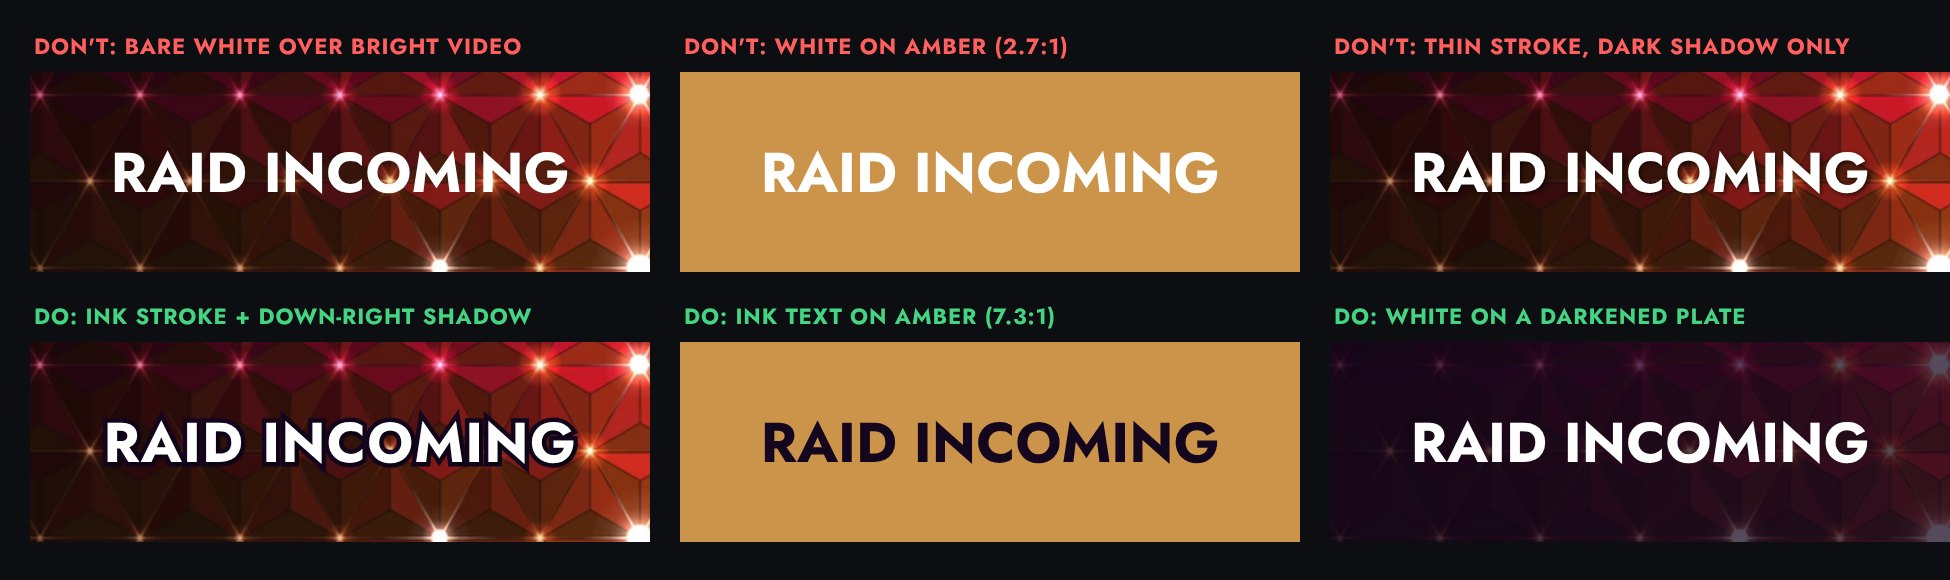
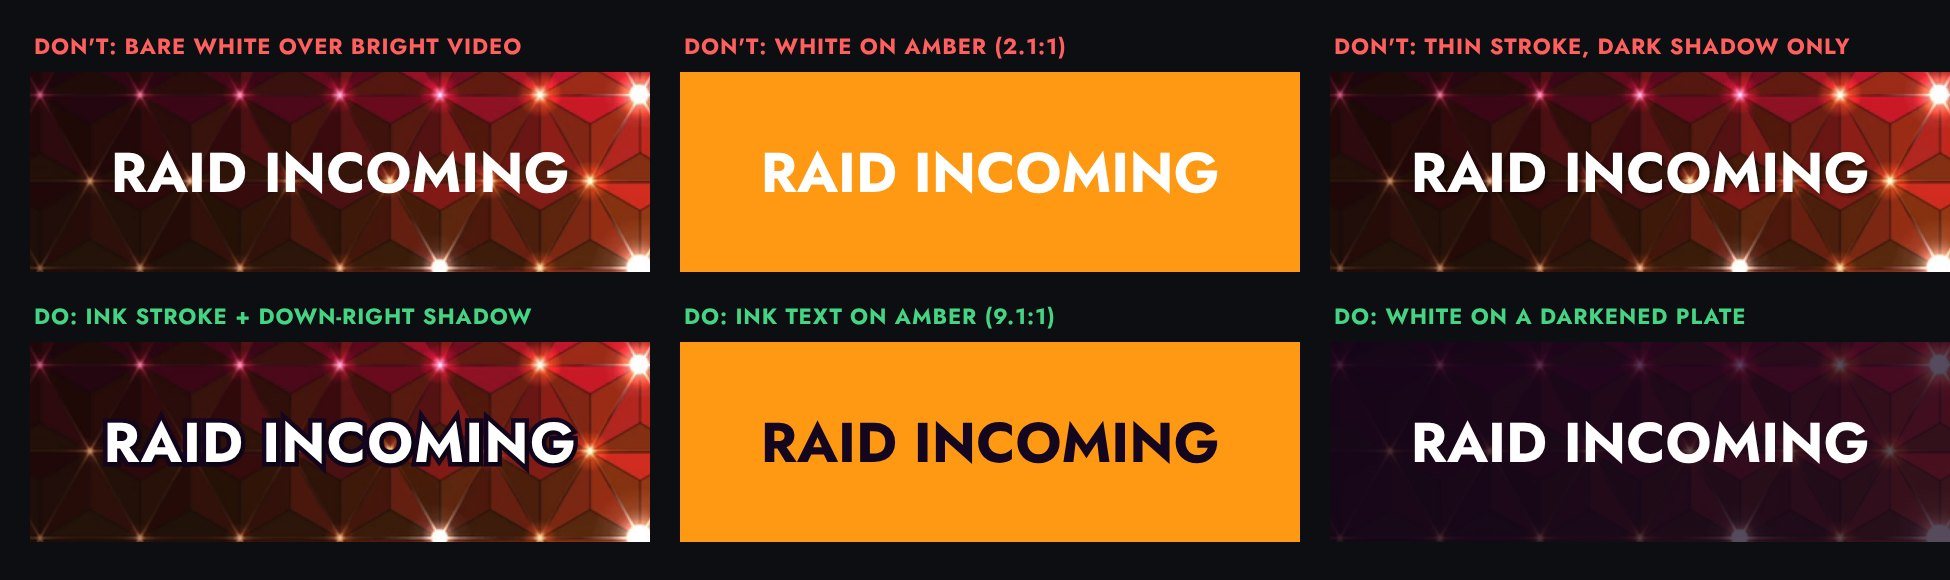
docs(design): shade stops like the scenes; mark target rules
Code review: designColor now shades the Illuminations stops on HSL
lightness through shadeStops(), as the scenes do, instead of on RGB; the
colour table and ratios follow (stop 5 white 3.2:1, stop 6 ink 9.1:1).
Design review: a Today vs target table marks the rules that differ from
what ships, and audit issues toward a target go through design review and
AJ's mocks first.

Claude-Session: https://claude.ai/code/session_01Jc2Vj5hE2S5k8CZ6sLe5BR

diff --git a/tools/design/figures.js b/tools/design/figures.js
@@ -23,7 +23,7 @@ import { tmpdir } from 'node:os';
 import { execFileSync } from 'node:child_process';
 import { launchBrowser, projectRoot } from '../lib/browser.js';
 import { config } from '../../src/config/config.js';
-import { safeRect, scaleHex } from '../../src/shared/design.js';
+import { safeRect, shadeHex } from '../../src/shared/design.js';
 import { miuItemRect } from '../../src/shared/layout.js';
 
 const flags = Object.fromEntries(process.argv.slice(2).filter(a => a.startsWith('--')).map(a => {
@@ -186,8 +186,8 @@ try {
 
     // 4. Text over video: contrast do and don't
     if (want('contrast')) {
-        const amber = scaleHex(stops[6], D.color.brightness);
-        const orange = scaleHex(stops[5], D.color.brightness);
+        const amber = shadeHex(stops[6], D.color.brightness);
+        const orange = shadeHex(stops[5], D.color.brightness);
         const tile = (label, cls, inner, bgCss) => `<div style="width:620px">
             <div class="cap ${cls}" style="margin:0 0 10px 4px">${label}</div>
             <div style="position:relative;width:620px;height:200px;overflow:hidden;${bgCss}">${inner}</div></div>`;
@@ -196,10 +196,10 @@ try {
         const plain = `font:700 56px Jost;text-transform:uppercase;color:#fff`;
         await shoot(`<div style="display:grid;grid-template-columns:repeat(3,620px);gap:28px 30px;padding:30px">
             ${tile('Don\'t: bare white over bright video', 'dont', word(plain), epcotBg)}
-            ${tile('Don\'t: white on amber (2.7:1)', 'dont', word(plain), `background:${amber}`)}
+            ${tile('Don\'t: white on amber (2.1:1)', 'dont', word(plain), `background:${amber}`)}
             ${tile('Don\'t: thin stroke, dark shadow only', 'dont', word(plain + ';text-shadow:2px 2px 4px rgba(0,0,0,.6)'), epcotBg)}
             ${tile('Do: ink stroke + down-right shadow', 'do', word(textCss(56)), epcotBg)}
-            ${tile('Do: ink text on amber (7.3:1)', 'do', word(`font:700 56px Jost;text-transform:uppercase;color:${D.color.ink}`), `background:${amber}`)}
+            ${tile('Do: ink text on amber (9.1:1)', 'do', word(`font:700 56px Jost;text-transform:uppercase;color:${D.color.ink}`), `background:${amber}`)}
             ${tile('Do: white on a darkened plate', 'do', word(plain), `${epcotBg};box-shadow:inset 0 0 0 1000px rgba(20,6,31,.72)`)}
           </div>`, 1950, 580, 'contrast.jpg');
         void orange;
@@ -207,8 +207,8 @@ try {
 
     // 5. Chroma subsampling: hue-only contrast dies in a 4:2:0 encode
     if (want('chroma')) {
-        const violet = scaleHex(stops[0], D.color.brightness), magenta = scaleHex(stops[2], D.color.brightness);
-        const red = scaleHex(stops[3], D.color.brightness);
+        const violet = shadeHex(stops[0], D.color.brightness), magenta = shadeHex(stops[2], D.color.brightness);
+        const red = shadeHex(stops[3], D.color.brightness);
         const src = await shoot(`<div style="width:1920px;height:1080px;background:${violet};position:relative">
             <div style="position:absolute;left:80px;top:140px;font:700 72px Jost;color:${magenta}">MAGENTA ON VIOLET</div>
             <div style="position:absolute;left:80px;top:300px;font:700 72px Jost;color:${red}">RED ON VIOLET</div>
@@ -229,11 +229,11 @@ try {
 
     // 6. Banding: big slow dark gradients band once encoded
     if (want('banding')) {
-        const ink = D.color.ink, violet = scaleHex(stops[0], 0.45);
+        const ink = D.color.ink, violet = shadeHex(stops[0], 0.45);
         const src = await shoot(`<div style="width:1920px;height:1080px;display:grid;grid-template-columns:1fr 1fr 1fr">
             <div style="background:linear-gradient(90deg, ${ink}, ${violet})"></div>
             <div style="background:linear-gradient(90deg, ${ink}, ${violet})"><canvas id="n" width="640" height="1080"></canvas></div>
-            <div style="background:linear-gradient(90deg, ${ink}, ${scaleHex(stops[0], 0.8)})"></div>
+            <div style="background:linear-gradient(90deg, ${ink}, ${shadeHex(stops[0], 0.8)})"></div>
           </div>
           <script data-run>
             const c = document.getElementById('n'), x = c.getContext('2d'), im = x.createImageData(640, 1080);

diff --git a/src/shared/design.js b/src/shared/design.js
@@ -4,6 +4,9 @@
  * Pure functions, unit-tested in tests/shared/design.test.js.
  */
 
+import { hexToHSL, hslToRgb } from './colors.js';
+import { shadeStops } from './palette.js';
+
 /**
  * WCAG relative luminance of a #rrggbb colour.
  *
@@ -32,16 +35,18 @@ export function contrastRatio(a, b) {
 }
 
 /**
- * Multiply each channel of a #rrggbb colour, the way the scenes apply their
- * brightness multiplier.
+ * Apply a scene brightness multiplier to a #rrggbb colour the way the scenes
+ * do: on HSL lightness, through `shadeStops()` (not on the RGB channels,
+ * which comes out lighter for saturated colours).
  *
  * @param {string} hex
- * @param {number} factor - 0.8 for the scenes' brightness
+ * @param {number} brightness - 0.8 for the scenes' palette
  * @returns {string} '#rrggbb'
  */
-export function scaleHex(hex, factor) {
-    const out = [1, 3, 5].map(i => Math.round(parseInt(hex.slice(i, i + 2), 16) * factor));
-    return '#' + out.map(v => Math.min(255, v).toString(16).padStart(2, '0')).join('');
+export function shadeHex(hex, brightness) {
+    const [{ h, s, l }] = shadeStops([hexToHSL(hex)], { brightness });
+    const { r, g, b } = hslToRgb(h, s, l);
+    return '#' + [r, g, b].map(v => Math.round(v * 255).toString(16).padStart(2, '0')).join('');
 }
 
 /**
@@ -57,7 +62,7 @@ export function designColor(name, design, stops) {
     if (name === 'white' || name === 'ink') return design.color[name];
     const match = /^stop(\d+)$/.exec(name);
     if (!match || !stops[Number(match[1])]) throw new Error(`Unknown design colour: ${name}`);
-    return scaleHex(stops[Number(match[1])], design.color.brightness);
+    return shadeHex(stops[Number(match[1])], design.color.brightness);
 }
 
 /**

diff --git a/src/config/config.js b/src/config/config.js
@@ -751,7 +751,7 @@ export const config = {
       ink: '#14061f',             // The dark text and stroke colour: Illuminations violet at 4% lightness
       brightness: 0.8,            // Same multiplier as every scene's palette (MOTION.md, Look)
       // Tested text pairs. bg 'stopN' = config.epcot.palettes.illuminations[N]
-      // at `brightness`. min 4.5 = any size, 3 = display sizes (56px+) only.
+      // at `brightness`, shaded on HSL lightness like the scenes. min 4.5 = any size, 3 = display sizes (56px+) only.
       // A new pair goes here first; design.test.js holds them.
       textPairs: [
         { text: 'white', bg: 'stop0', min: 4.5 },
@@ -761,7 +761,7 @@ export const config = {
         { text: 'white', bg: 'stop4', min: 4.5 },
         { text: 'white', bg: 'stop5', min: 3 },    // Orange: display sizes, with the stroke
         { text: 'ink', bg: 'stop5', min: 4.5 },
-        { text: 'ink', bg: 'stop6', min: 4.5 },    // Amber: white fails (2.7), ink only
+        { text: 'ink', bg: 'stop6', min: 4.5 },    // Amber: white fails (2.1), ink only
         { text: 'white', bg: 'ink', min: 4.5 }
       ]
     },

diff --git a/tests/shared/design.test.js b/tests/shared/design.test.js
@@ -1,5 +1,5 @@
 import { describe, it, expect } from 'vitest';
-import { relativeLuminance, contrastRatio, scaleHex, designColor, safeRect } from '../../src/shared/design.js';
+import { relativeLuminance, contrastRatio, shadeHex, designColor, safeRect } from '../../src/shared/design.js';
 import { config } from '../../src/config/config.js';
 
 const design = config.design;
@@ -13,8 +13,9 @@ describe('contrast math', () => {
         expect(contrastRatio('#777777', '#ffffff')).toBeCloseTo(4.48, 2);
     });
 
-    it('scales colours like the scenes brightness multiplier', () => {
-        expect(scaleHex('#ff8c1e', 0.8)).toBe('#cc7018');
+    it('shades colours like the scenes (HSL lightness, shadeStops)', () => {
+        expect(shadeHex('#ff8c1e', 0.8)).toBe('#e66f00');
+        expect(shadeHex('#ffffff', 1)).toBe('#ffffff');
     });
 });
 

diff --git a/docs/DESIGN.md b/docs/DESIGN.md
@@ -21,6 +21,24 @@ stream, often on a phone.
   wins until this doc is fixed.
 - Rules carry an id (`SAFE-2`, `TYPE-4`) so reviews and issues can cite them.
 
+### Today vs target
+
+Some rules describe where the stream is going, not what ships today. They
+are **targets**: they gate new work, but a scene that predates them is not
+failed against them until its audit issue lands (and, for a look AJ would
+notice, AJ has picked it from mocks). Everything not in this table is in
+force now.
+
+| Rule | Target | Ships today |
+|---|---|---|
+| MOTION-1, motion tokens | Enter 500ms on `ease.enter`, exit 350ms on `ease.exit`, exits quicker than entries | Shared entry/exit 1000/1000ms on `easeInOutCubic` ([MOTION.md](MOTION.md), Timing); the sidebar splits its `duration` 25/50/25 |
+| TYPE-1 | Alert text 56px and up | Sidebar 29px; shade 96px |
+| TYPE-3 | Ink stroke 0.08em + soft shadow | Shade: 96px with a soft shadow, no stroke ([MOTION.md](MOTION.md), Look); sidebar: a black text-shadow outline |
+| TYPE-7 | Fonts bundled into the build | Jost from Google Fonts at runtime, or the machine's installed Jost |
+| CUT-2 | At most 300ms of static full cover | 30% of `duration`: 300ms at the default 1000ms, 600ms at OBS's `duration=2000` |
+| TIME-1 | The hold alone meets reading time | The sidebar's hold is 50% of `duration` (1.5s at OBS's 3000ms) |
+| SAFE-1, SAFE-3 | Every word inside title-safe, none in the bottom 8% | OBS-placed text (goal bar, scene titles) at 20-30px from the edges |
+
 **Scope** is the OBS program output (AJ, 2026-10-28): every scene, alert,
 widget and transition a viewer sees. Control UIs that never reach the
 program (the discoball lighting desk, the vtuber debug panel, OBS docks) are
@@ -107,17 +125,18 @@ The Illuminations palette is the only colour source for graphics, painted as
 one screen-fixed top-to-bottom gradient, always: AJ's decision, recorded with
 its exceptions (single-band bars take it along their length) in
 [MOTION.md](MOTION.md), Learnings. Every scene applies the 0.8 brightness
-multiplier.
+multiplier to HSL lightness (`shadeStops()`), and the "At 0.8" column is
+that result.
 
 | Stop | Hex | At 0.8 | White on it | Ink on it | Text rule |
 |---|---|---|---|---|---|
-| 0 Violet crown | #7a14e8 | #6110b9 | 9.2:1 | 2.1:1 | White, any size |
+| 0 Violet crown | #7a14e8 | #6110b7 | 9.3:1 | 2.1:1 | White, any size |
 | 1 Purple | #a312c9 | #820ea0 | 8.3:1 | 2.3:1 | White, any size |
-| 2 Magenta | #c90f8a | #a00c6e | 7.6:1 | 2.6:1 | White, any size |
-| 3 Crimson | #d8123c | #ac0e30 | 7.3:1 | 2.7:1 | White, any size |
-| 4 Red-orange | #ef5a24 | #bf481c | 5.1:1 | 3.9:1 | White, any size |
-| 5 Orange | #ff8c1e | #cc7018 | 3.6:1 | 5.5:1 | White at 56px+ with the stroke, or ink |
-| 6 Amber | #ffb85c | #cc9349 | 2.7:1 | 7.3:1 | Ink only |
+| 2 Magenta | #c90f8a | #a10c70 | 7.5:1 | 2.6:1 | White, any size |
+| 3 Crimson | #d8123c | #af0e31 | 7.2:1 | 2.7:1 | White, any size |
+| 4 Red-orange | #ef5a24 | #cc420f | 4.8:1 | 4.0:1 | White, any size |
+| 5 Orange | #ff8c1e | #e66f00 | 3.2:1 | 6.2:1 | White at 56px+ with the stroke, or ink |
+| 6 Amber | #ffb85c | #ff9914 | 2.1:1 | 9.1:1 | Ink only |
 | White | #ffffff | | | 19.5:1 | Accents and text |
 | Ink | #14061f | | 19.5:1 | | Strokes, shadows, dark text, plates |
 
@@ -150,11 +169,11 @@ canvas, with what a viewer sees:
 | `headline` | 56 | 37 | 11.4 | Tier 2 alerts (sidebar), scene titles |
 | `label` | 40 | 27 | 8.1 | Persistent widgets (goal, notifications) |
 
-- **TYPE-1** Nothing a viewer must read is under 40px (`minPx`). Alert text
-  is 56px and up. Today's sidebar text is 29px: 6px on a phone.
+- **TYPE-1** (target for alerts) Nothing a viewer must read is under 40px
+  (`minPx`). Alert text is 56px and up. Today's sidebar text is 29px: 6px on a phone.
 - **TYPE-2** Uppercase, tracking +2% (`trackingEm`). Usernames keep their
   letters but render in caps like everything else.
-- **TYPE-3** Text over anything that moves takes the recipe: an ink stroke
+- **TYPE-3** (target) Text over anything that moves takes the recipe: an ink stroke
   of 0.08em (never under 3px, so 2px survives a 720p encode), painted
   under the fill, plus a soft ink shadow 0.04em down-right. Text on a solid
   plate needs only the plate.
@@ -166,7 +185,7 @@ canvas, with what a viewer sees:
 - **TYPE-6** One line by preference, two at most, about 28 characters a
   line. Long text shrinks, then wraps, then ellipses, in that order: the
   rule and its 75% floor live in [MOTION.md](MOTION.md).
-- **TYPE-7** Fonts are bundled into the single-file build, never fetched at
+- **TYPE-7** (target) Fonts are bundled into the single-file build, never fetched at
   runtime. A browser source that loads before Google Fonts answers, or
   offline, falls back to Arial for the whole alert.
 - **TYPE-8** The words are stable: the on-screen text and the chat headline
@@ -201,7 +220,7 @@ canvas, with what a viewer sees:
 | `durationMs.stagger` | 60 | Between siblings arriving |
 | `settleMs` | 150 | Stillness after an arrival before it counts as readable |
 
-- **MOTION-1** Enter, hold, exit. Every alert arrives (enter), sits still to
+- **MOTION-1** (target timings) Enter, hold, exit. Every alert arrives (enter), sits still to
   be read (hold), and leaves (exit). Exits are quicker than entries. The
   text itself is still for the whole hold: moving text smears in the encode
   and can't be read on a phone.
@@ -230,7 +249,7 @@ canvas, with what a viewer sees:
   to spare either side, and the cut is at 50% of the URL's `duration`. The
   URL duration and OBS's Transition point change together (the vault's Alert &
   Transition Wiring note; [SCENES.md](SCENES.md)).
-- **CUT-2** The full cover is a moment, not a hold: at most 300ms of static
+- **CUT-2** (target) The full cover is a moment, not a hold: at most 300ms of static
   cover (`staticCoverMaxMs`), with the bars still moving through it. The
   whole stinger is 800-1500ms; the cut lands on its busiest frame.
 - **CUT-3** Motion keeps its direction through the cut, so the eye reads one
@@ -262,7 +281,7 @@ canvas, with what a viewer sees:
 
 ### Timing
 
-- **TIME-1** Reading time: the hold, still and fully on screen, is at least
+- **TIME-1** (target for the sidebar) Reading time: the hold, still and fully on screen, is at least
   200ms a word and never under 3s ([MOTION.md](MOTION.md), Timing). Enter
   and exit don't count. An alert whose `duration` can't fit enter + hold +
   exit grows its duration; it never cuts the hold.
@@ -370,3 +389,6 @@ capture when OBS adds layers on top. Cite the rule id for each finding.
 - A look AJ would notice goes to AJ as side-by-side mocks with a
   recommendation (CLAUDE.md, Shipping); everything else ships through
   review.
+- An audit issue that moves a scene toward a target rule (Today vs target)
+  goes through Design review, then to AJ as side-by-side mocks, before
+  anyone builds it. Those issues carry the `design-decision` label.

diff --git a/docs/roles/design-system.md b/docs/roles/design-system.md
@@ -90,4 +90,4 @@ project memory (`MEMORY.md`).
 |---|---|---|---|---|
 | 2026-10-28 | Judge legibility at the size viewers get, not the 1080p canvas: 29px text is 19px on a 720p stream and 6px on a phone in portrait | Type-scale figure, `docs/design/type-scale.jpg` | All text | active |
 | 2026-10-28 | Harness frames miss what OBS adds on top: live captures showed the Pride Guild badge drawn over alerts and the Starting text outside title-safe, neither visible in a harness render | Defiant captures 2026-10-28, audit | Audits | active |
-| 2026-10-28 | Measure contrast on the palette after the 0.8 brightness multiplier: it darkens every stop and raises white's contrast (stop 5 goes from 2.3 to 3.6:1) | `tests/shared/design.test.js` | Colour rules | active |
+| 2026-10-28 | Measure contrast on the palette after the 0.8 brightness multiplier: the scenes apply it to HSL lightness (`shadeStops()`), not RGB, and the two differ by up to 0.5:1 on the orange stops (stop 5: 3.2:1, not 3.6) | Code review on PR #30 | Colour rules | active |
